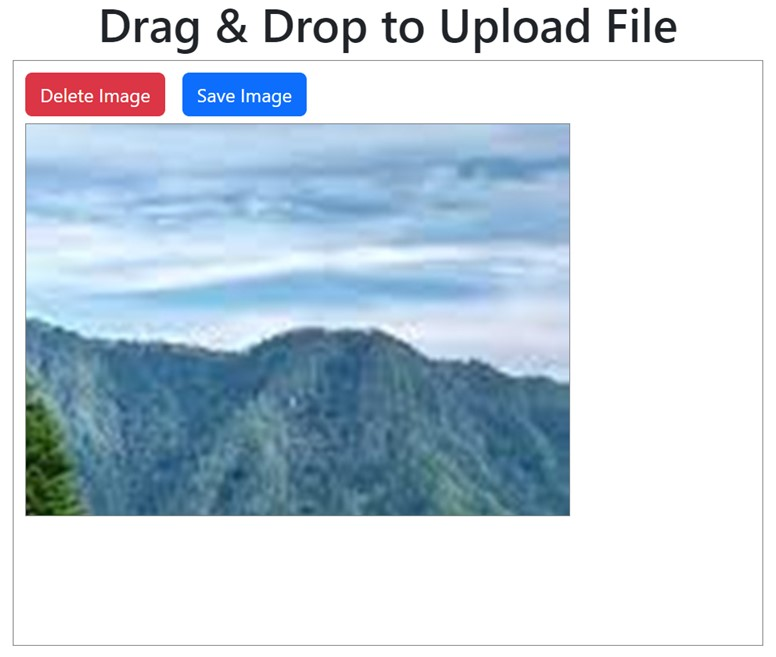
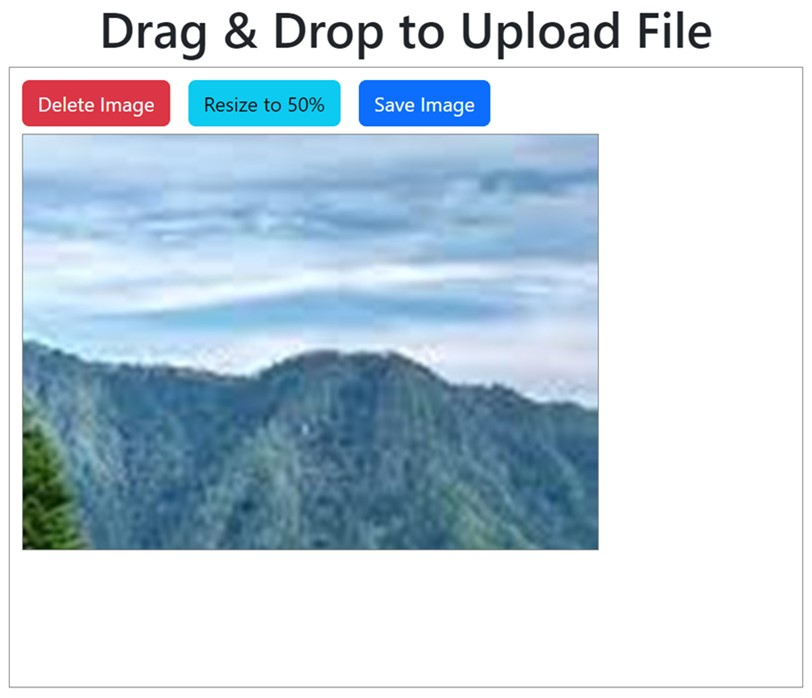
New screenshot added

Changed region(s): [[0.0, 0.0, 0.9897, 1.0], [0.3402, 0.4871, 0.5567, 0.5479], [0.1546, 0.6697, 0.1856, 0.7002]]

diff --git a/index.html b/index.html
@@ -76,7 +76,15 @@
             });
         })
         $('#resizeto50p').click(function() {
-
+            var canvas = document.getElementById('imgloaded');     
+            img = new Image();
+            img.src = path;
+            ctx = canvas.getContext('2d');            
+            img.onload = function(){
+                canvas.width = Number(img.width * 0.5);
+                canvas.height = Number(img.height * 0.5);
+                ctx.drawImage(img, 0, 0);
+            }
         })
         function canvasWithImage() {
             var canvas = document.getElementById('imgloaded');     
